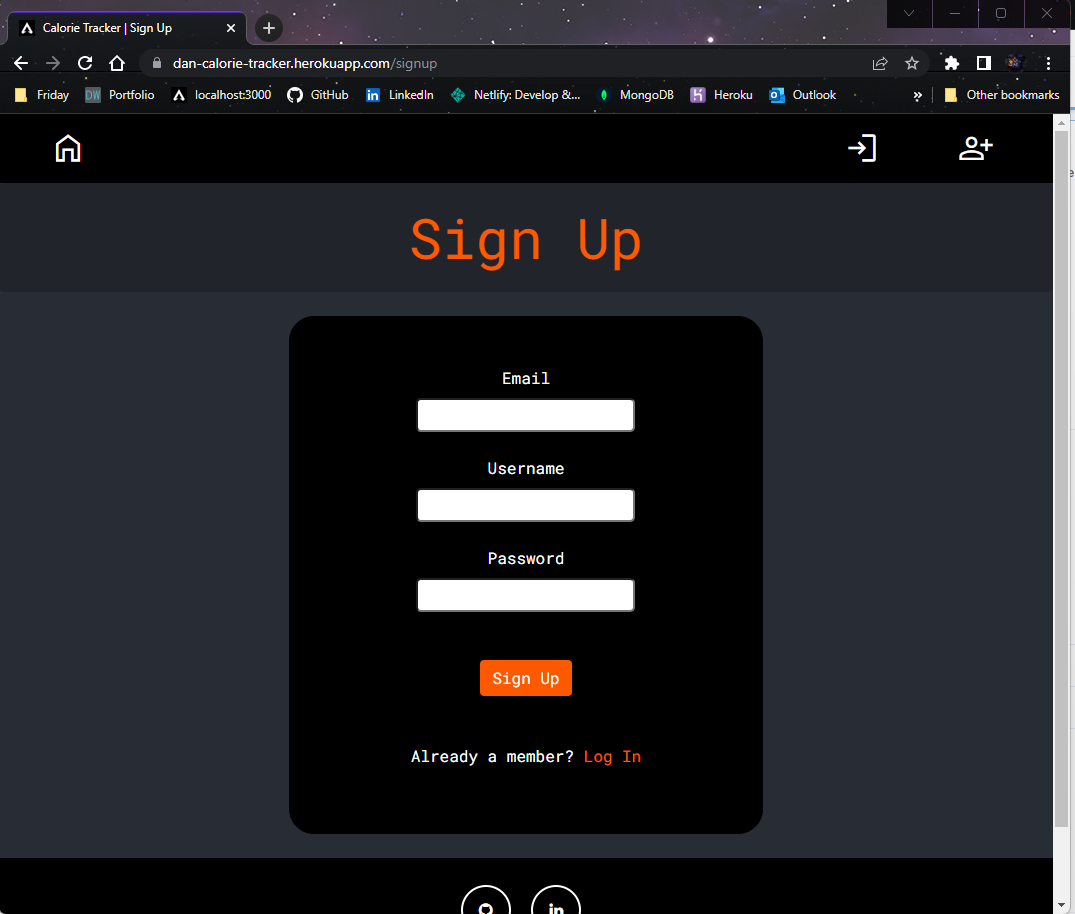
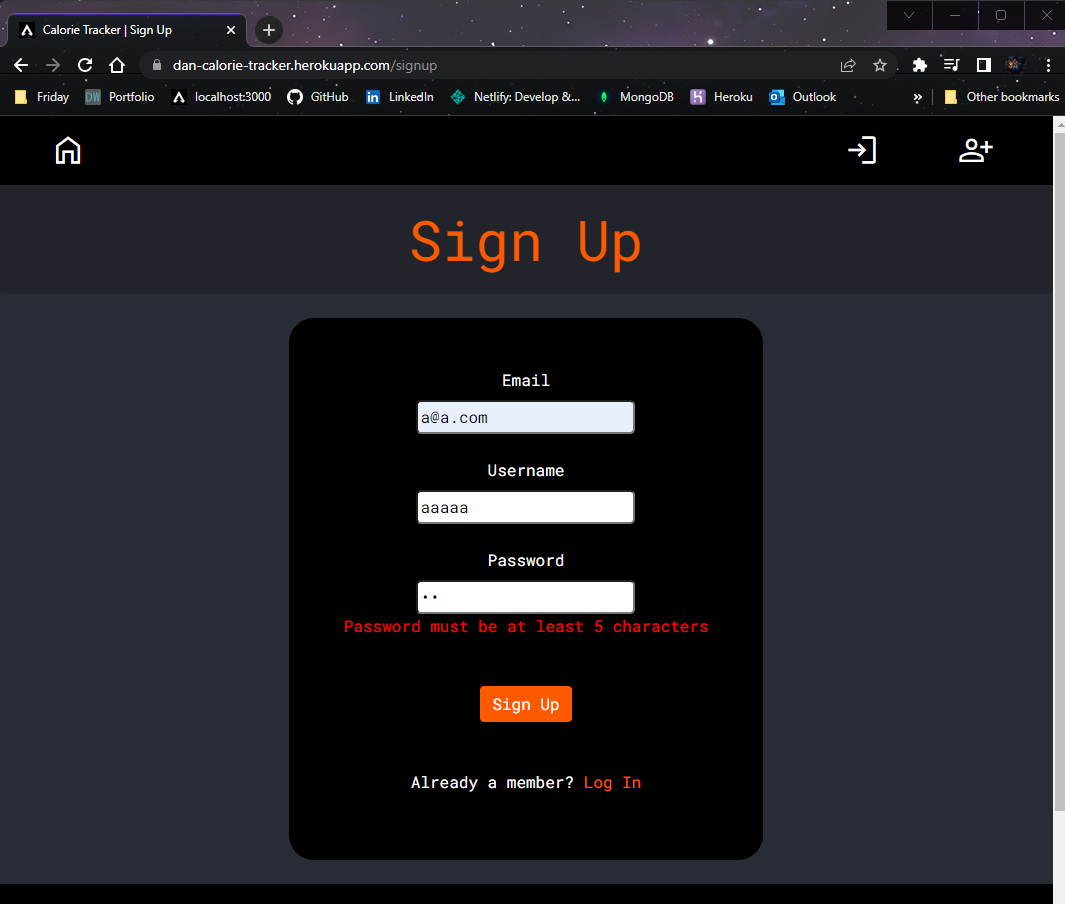
screenshots for calorie tracker all added

diff --git a/src/app/projectsList.ts b/src/app/projectsList.ts
@@ -18,9 +18,23 @@ export const PROJECTS: Project[] = [
         screenshot2Description: 'Login form',
         screenshot3: '../../../assets/images/calorieTracker/screenshot-3.png',
         screenshot3Description: 'Signup form',
-        screenshot4: '../../../assets/images/calorieTracker/screenshot-3.png',
-        screenshot4Description: 'Lorem ipsum, dolor sit amet consectetur adipisicing elit. Recusandae enim cum similique voluptas nulla? Repellat autem, incidunt magni culpa non illo, soluta quidem fugit voluptas doloremque necessitatibus at optio. Ab.',
-        code1: '../../../assets/images/calorieTracker/code-4.png',
+        screenshot4: '../../../assets/images/calorieTracker/screenshot-4.png',
+        screenshot4Description: 'A form displaying the custom error handling to users, invalid password (too short) on signup in this example.',
+        screenshot5: '../../../assets/images/calorieTracker/screenshot-5.png',
+        screenshot5Description: 'List of days.',
+        screenshot6: '../../../assets/images/calorieTracker/screenshot-6.png',
+        screenshot6Description: 'Server side error handling when trying to make a day that already exists.',
+        screenshot7: '../../../assets/images/calorieTracker/screenshot-7.png',
+        screenshot7Description: 'A new page for each new week.',
+        screenshot8: '../../../assets/images/calorieTracker/screenshot-8.png',
+        screenshot8Description: 'The entry for a day before any food is added',
+        screenshot9: '../../../assets/images/calorieTracker/screenshot-9.png',
+        screenshot9Description: 'The form used to add food.',
+        screenshot10: '../../../assets/images/calorieTracker/screenshot-10.png',
+        screenshot10Description: 'The same day entry as before after some food items have been added.',
+        screenshot11: '../../../assets/images/calorieTracker/screenshot-11.png',
+        screenshot11Description: 'MUST ADD THIS FUNCTIONALITY. The entry after a user has clicked the delete icon to remove a food object from this day.',
+        code1: '../../../assets/images/calorieTracker/code-1.png',
         code1Description: 'The sever instance and routes for the backend of the application. As this app is designed to scale with more functionality, the MVC model has been used to allow for a structured folder and file system which enables far easier addition of new code. The middleware on line 68, causes all GET routes to check if a user is logged in before sending any resources. As seen below, some routes will "requireAuth", implementing required login state for certain areas of the application. Currently, the required routes are the "indexRoutes" for the home page, "authRoutes" to handle user login and "calorieRoutes" that handle requests from the front end in regards to the calorie tracking. Lines 75-77 show the catch-all used to allow the display of a custom 404 page if the user naviagates away from the avilable routes.',
         code2: '../../../assets/images/calorieTracker/code-2.png',
         code2Description: 'Middleware for the authentication. When users are logged in, a cookie is saved with the corresponding JSON Web Token (JWT) which this middle ware uses in each function. "requireAuth" checks for a cookie and goes to the next process in the stack with line 24 if it is valid, however if it doesnt not exist or is invalid, the user is redirecetd to the login page. This is applied to every endpoint that needs to be hidden from a non-logged in user - such as the page that displays eaten food. "checkUser" sets the local variable of "user" to the username if found so it can be displayed on the page in the header, if a user is not logged in this function simply passes the process along the stack with the user as null.',
@@ -40,6 +54,10 @@ export const PROJECTS: Project[] = [
         code9Description: 'The "Day" Schema the template for day objects to be added to each user. As such, each contains a "userId" which associates it with the logged in user. This is not unique as there is a One to Many relationship occuring, where each user may have many days of tracking but each day object can only be associated with a single user. "dayId" is unique so no 2 day objects can be added for each user and is created by appending the "userId" onto the current day number - e.g. for user 777, day 1 would have the "dayId" 1777. Similarly to users, each day can contain foods, which is added as an array of food objects. It is not required as when it was required, no new days could be created without having already having food and since you cannot create a food object before a day, no new days would be added. The static method "findByUserId" was created to allow the calorie controller to return a day for a user given the "userId". Previously I was trying to use "findById" but this is a built in Mongoose method that uses the auto generated "_id" and so was causing errors. This allows the day to be found easily for use in the calorie controller.',
         code10: '../../../assets/images/calorieTracker/code-10.png',
         code10Description: 'For food, the "userDayId" field is populated with the "dayId" with the associated day with "-Number" appended. E.g. if user 777 added an apple to day 1, "userDayId" would be 1777-1. The name of each food added an calorie amount is aquired from an external database when the food is added via POST requets to "/calorie" in the backend to protect my API key located in the .env file.',
+        code11: '../../../assets/images/calorieTracker/code-11.png',
+        code11Description: 'The header partial is applied to all pages and contains conditonal rendering between lines 33 and 48. If a user exists as seen previously from the authentication middleware, then display "Welcome username" and the logout button, else the login and signup buttons.',
+        code12: '../../../assets/images/calorieTracker/code-12.png',
+        code12Description: 'An example of an EJS template. The partials included in each page are the header and footer components located in a seperate folder/file, similar to React or Angular. This pacticular page is for the login form.',
     },
     {
         id: 1,
@@ -65,7 +83,7 @@ export const PROJECTS: Project[] = [
         code1: '../../../assets/images/jigsawHelper/code-1.png',
         code1Description: 'The method called by the completedFindButton() method in the GUI class CreateInterface to show the user where the piece fits, returning the LinkedHashMap "sortedMap" that contains all of the possible locations ranked by score (lower mean squared error is a better score) required to draw the rectangle onto the finished image. Initially the sobelDetector() method is called to acquire the edge flag Boolean so the program knows whether to use the coloured 3d array or greyscale 2d array for the search. The threshold for the mean squared error is lower for the colour array as it is a more thorough search and therefore must have a stricter criteria to be considered a possible location. The "sortedMap" LinkedHashMap is where the possible locations for the piece are stored, ordered by their mean square error score, so the most likely piece is at the first part of the array.',
         code2: '../../../assets/images/jigsawHelper/code-2.png',
-        code2Description: 'The method begins by creating an array of integers the size of the image supplied to it and using nested for loops to iterate through both column (x) and row (y). The value of each pixel’s RGB colour is then calculated for a 3x3 grid from row 0 column 0 to row 2 column 2. The size of the grid of pixels created is 3x3 so it can be passed into the edge detection logic. Both the horizontal and vertical edge detection are calculated using the appropriate operator. The Sobel operator is the computer vision chosen as it is the most effective at creating an image that shows the edges that were originally in the image. The 3x3 operation calculations using convolution to acquire a gradient that can be used to construct a greyscale image. For this application, the gradient is added to a 2d array for use in the search algorithm later in the process. This method also contains the flag setter, which will determine which of the search method will be used, colour if false and greyscale if true. The method takes the parameter of Boolean type ‘isPiece’ which means the flag section is only accessed when supplied with the piece image and not the final image. The Sobel operator produces an image with values based heavily on whether an edge exists, and therefore the pixels array will contain values above the given ‘minRequiredToFlag’ threshold of 100 if the greyscale image is the appropriate procedure for finding this particular piece. As seen in figure 18, this means the greyscale of the final image will be compared against the piece greyscale array of the piece for the search. The field ‘pieceEdgesFlag’ is altered which tells the launch() method which method to call.',
+        code2Description: 'The method begins by creating an array of integers the size of the image supplied to it and using nested for loops to iterate through both column (x) and row (y). The value of each pixel’s RGB colour is then calculated for a 3x3 grid from row 0 column 0 to row 2 column 2. The size of the grid of pixels created is 3x3 so it can be passed into the edge detection logic. Both the horizontal and vertical edge detection are calculated using the appropriate operator. The Sobel operator is the computer vision chosen as it is the most effective at creating an image that shows the edges that were originally in the image. The 3x3 operation calculations using convolution to acquire a gradient that can be used to construct a greyscale image. For this application, the gradient is added to a 2d array for use in the search algorithm later in the process. This method also contains the flag setter, which will determine which of the search method will be used, colour if false and greyscale if true. The method takes the parameter of Boolean type ‘isPiece’ which means the flag section is only accessed when supplied with the piece image and not the final image. The Sobel operator produces an image with values based heavily on whether an edge exists, and therefore the pixels array will contain values above the given ‘minRequiredToFlag’ threshold of 100 if the greyscale image is the appropriate procedure for finding this particular piece. The greyscale of the final image will be compared against the piece greyscale array of the piece for the search. The field ‘pieceEdgesFlag’ is altered which tells the launch() method which method to call.',
         code3:  '../../../assets/images/jigsawHelper/code-3.png',
         code3Description: 'Once the greyscale image has been selected by the edge flag, the launch() method calls the following method to search for the location of the greyscale piece within the greyscale final image. Since both images (piece and final) are greyscale, the arrays they are contained in are 2d, so the search is relatively quick compared to the coloured search. A new 2d array is made for the comparator to find the location. This is created by copying the specified range of the 2d final image array into the new comparator array, the size of this cut is equal to the piece array size. The matching comparator array size with the piece array size allows the mean squared error logic in the method below to iterate across the final image comparing the exact piece size for each new line of pixels in the final image. Once the meanSquaredError() method has found the likely position, the Map object is populated with locations and scores.',
         code4:  '../../../assets/images/jigsawHelper/code-4.png',
@@ -79,17 +97,19 @@ export const PROJECTS: Project[] = [
         code8:  '../../../assets/images/jigsawHelper/code-8.png',
         code8Description: 'Once the algorithm has determined the location of the piece within the finished image, the application then draws the location as a box for the user to see the result of the computation. Since the algorithm also can supply more than one method of retrieving the result through taking a mean of results based on mean squared error, there are other methods with the same functionality that draw a different colour box.',
         code9:  '../../../assets/images/jigsawHelper/code-9.png',
-        code9Description: 'This button is where the two classes link together, with the actionPerformed() method using a try/catch clause to call the launch() method from the LocationAlgorithm class. The resulting LinkedHashMap, ‘sortedMap’, populated by the launch() method uses the first 2 elements as the x and y coordinates for the top left of the box. The drawLocationRed() methoD is then called with the parameters using the most likely position of the piece, as the first x and y coordinates in the ‘answers’ array have the smallest mean squared error. The method also sets the fields ‘xCoord2’ and ‘yCoord2’ for use in the completedFullSizeButton seen in figure 14 below by totalling the values of each x and y coordinate for the top  10 most likely positions (based on mean square error score) and putting the mean into an ArrayList for x and for y. The top 10 were chosen to represent the mean as some tests seen in chapter 6 return far too many answers for an accurate and representative mean, so the number is limited to 10. If the total number of locations found is less than 10, all options are considered in the mean calculations. Each of the positionOfPiece variables is the type cast array value from the correct value in the LinkedHashMap returned by LocationAlgorithm launch().',
+        code9Description: 'This button is where the two classes link together, with the actionPerformed() method using a try/catch clause to call the launch() method from the LocationAlgorithm class. The resulting LinkedHashMap, ‘sortedMap’, populated by the launch() method uses the first 2 elements as the x and y coordinates for the top left of the box. The drawLocationRed() methoD is then called with the parameters using the most likely position of the piece, as the first x and y coordinates in the ‘answers’ array have the smallest mean squared error. The method also sets the fields ‘xCoord2’ and ‘yCoord2’ for use in the completedFullSizeButton by totalling the values of each x and y coordinate for the top  10 most likely positions (based on mean square error score) and putting the mean into an ArrayList for x and for y. The top 10 were chosen to represent the mean as some tests returned far too many answers for an accurate and representative mean, so the number is limited to 10. If the total number of locations found is less than 10, all options are considered in the mean calculations. Each of the positionOfPiece variables is the type cast array value from the correct value in the LinkedHashMap returned by LocationAlgorithm launch().',
         code10: '../../../assets/images/jigsawHelper/code-10.png',
         code10Description: 'An example of how the Java GUI elements are styled. The purpose of the completedFullSizeButton to also show the user other possible locations, seen by the ‘setText("Click Here To See All Possible Locations")’ method invoked on the button. The button shows the user the finished image in its full size in a new window along with as blue box that uses the fields ‘xCoord2’ and ‘yCoord2’ to draw a blue box around the mean of all possible locations. This method also redraws the same red box as before on the new window image.',
+        code11: '../../../assets/images/jigsawHelper/code-11.png',
+        code11Description: 'When a new piece is uploaded, the height and width are added to a global variable within this class. This allows the draw method to be draw a box the exact same size as the piece image.',
     },
     {
         id: 2,
         title: 'GitHub Searcher',
         url: 'https://dan-react-github-search.netlify.app/',
         GitHub: 'https://github.com/WalkingZ3d/github-tracker',
-        summary: 'A React front-end exclusive application to search for a given users repositories. This application makes uese of React routing, state, reducers amd useEffect() Hooks to achieve its result.',
-        description: 'A React front-end exclusive application to search for a given users repositories. This application makes uese of React routing, state, reducers amd useEffect() Hooks to achieve its result.',
+        summary: 'A React front-end exclusive application to search for a given users repositories. This application makes uses of React routing, state, reducers amd useEffect() Hooks to achieve its result.',
+        description: 'A React front-end exclusive application to search for a given users repositories. This application makes uses of React routing, state, reducers amd useEffect() Hooks to achieve its result.',
         picture: '../../../assets/images/repoSearcher/main-screenshot.png',
         stamp: '../../../assets/images/stamps/personal-pink-clear.png',
         framework: '../../../assets/images/frameworkIcons/react-logo.png',
@@ -102,7 +122,7 @@ export const PROJECTS: Project[] = [
         screenshot4: '../../../assets/images/repoSearcher/screenshot-4.png',
         screenshot4Description: 'This page takes advantage of React Routing to provide the user with a custom 404 page if they navigate to a non-existant route.',
         code1: '../../../assets/images/repoSearcher/code-1.png',
-        code1Description: 'This useEffect() React Hook is located in the source code for the "Search" page and fires whenever a new username is searched. The asynchronous function, seen between lines 20 and 29, makes a call to the GitHub API to update both the reposCount (number of repositories for that username) and ownerName (username) React States - called recursively on line 31. This method of nested async function is necessary as the useEffect itself cannot be asynchronous. ',
+        code1Description: 'This useEffect() React Hook is located in the source code for the "Search" page and fires whenever a new username is searched. The asynchronous function, seen between lines 20 and 29, makes a call to the GitHub API to update both the reposCount (number of repositories for that username) and ownerName (username) React States - and is called recursively on line 31. This method of nested async function is necessary as the useEffect itself cannot be asynchronous. ',
         code2: '../../../assets/images/repoSearcher/code-2.png',
         code2Description: 'This useEffect() is also located in the source code for the "Search" page and fires whenever the number of pages are changed, username is changed or a new page is navigated to. The async function, seen between lines 44 and 62, sets the number of pages required (lines 46 and 47) and calls the API to get as many repositories as each page will show. This function is also called recursively within the useEffect.',
         code3: '../../../assets/images/repoSearcher/code-3.png',
@@ -122,7 +142,7 @@ export const PROJECTS: Project[] = [
         description: 'Lorem ipsum, dolor sit amet consectetur adipisicing elit. Recusandae enim cum similique voluptas nulla? Repellat autem, incidunt magni culpa non illo, soluta quidem fugit voluptas doloremque necessitatibus at optio. Ab.',
         picture: '../../../assets/images/fnc.png',
         stamp: '../../../assets/images/stamps/collaborative-pink-clear.png',
-        framework: '../../../assets/images/frameworkIcons/node-logo.png',
+        framework: '../../../assets/images/frameworkIcons/flask-logo.png',
         screenshot1: '../../../assets/images/calorieTracker/calorieTracker.png',
         screenshot1Description: 'Lorem ipsum, dolor sit amet consectetur adipisicing elit. Recusandae enim cum similique voluptas nulla? Repellat autem, incidunt magni culpa non illo, soluta quidem fugit voluptas doloremque necessitatibus at optio. Ab.',
         screenshot2: '../../../assets/images/calorieTracker/calorieTracker.png',

diff --git a/src/app/components/project-display/project-display.component.html b/src/app/components/project-display/project-display.component.html
@@ -98,6 +98,46 @@
                         <img src="{{projectChosen.screenshot6}}" alt="" id="projectImg"> 
                     </div>
                 </div>
+                <div *ngIf="projectChosen.screenshot7" class="row text-center" id="screenshotRow">
+                    <div class="col-sm-6" id="imagesCol">
+                        <img src="{{projectChosen.screenshot7}}" alt="" id="projectImg"> 
+                    </div>
+                    <div class="col-sm-6 justify-content-center align-self-center" id="imagesColR">
+                        {{projectChosen.screenshot7Description}}
+                    </div>
+                </div>
+                <div *ngIf="projectChosen.screenshot8" class="row text-center" id="screenshotRow2">
+                    <div class="col-sm-6 justify-content-center align-self-center" id="imagesColL">
+                        {{projectChosen.screenshot8Description}}
+                    </div>
+                    <div class="col-sm-6" id="imagesCol">
+                        <img src="{{projectChosen.screenshot8}}" alt="" id="projectImg"> 
+                    </div>
+                </div>
+                <div *ngIf="projectChosen.screenshot9" class="row text-center" id="screenshotRow">
+                    <div class="col-sm-6" id="imagesCol">
+                        <img src="{{projectChosen.screenshot9}}" alt="" id="projectImg"> 
+                    </div>
+                    <div class="col-sm-6 justify-content-center align-self-center" id="imagesColR">
+                        {{projectChosen.screenshot9Description}}
+                    </div>
+                </div>
+                <div *ngIf="projectChosen.screenshot9" class="row text-center" id="screenshotRow2">
+                    <div class="col-sm-6 justify-content-center align-self-center" id="imagesColL">
+                        {{projectChosen.screenshot10Description}}
+                    </div>
+                    <div class="col-sm-6" id="imagesCol">
+                        <img src="{{projectChosen.screenshot10}}" alt="" id="projectImg"> 
+                    </div>
+                </div>
+                <div *ngIf="projectChosen.screenshot11" class="row text-center" id="screenshotRow">
+                    <div class="col-sm-6" id="imagesCol">
+                        <img src="{{projectChosen.screenshot11}}" alt="" id="projectImg"> 
+                    </div>
+                    <div class="col-sm-6 justify-content-center align-self-center" id="imagesColR">
+                        {{projectChosen.screenshot11Description}}
+                    </div>
+                </div>
             </div>
             <div class="tab-pane fade" id="pills-code" role="tabpanel" aria-labelledby="pills-code-tab">
                 <div *ngIf="projectChosen.code1" class="row text-center d-flex" id="screenshotRow2">
@@ -178,6 +218,22 @@
                     </div>
                     <div class="col-sm-6 justify-content-center align-self-center" id="imagesColR">
                         {{projectChosen.code10Description}}
+                    </div>
+                </div>
+                <div *ngIf="projectChosen.code11" class="row text-center" id="screenshotRow2">                    
+                    <div class="col-sm-6 justify-content-center align-self-center" id="imagesColL">
+                        {{projectChosen.code11Description}}
+                    </div>
+                    <div class="col-sm-6" id="imagesCol">
+                        <img src="{{projectChosen.code11}}" alt="" id="projectImg"> 
+                    </div>
+                </div>
+                <div *ngIf="projectChosen.code12" class="row text-center" id="screenshotRow">                    
+                    <div class="col-sm-6" id="imagesCol">
+                        <img src="{{projectChosen.code12}}" alt="" id="projectImg"> 
+                    </div>
+                    <div class="col-sm-6 justify-content-center align-self-center" id="imagesColR">
+                        {{projectChosen.code12Description}}
                     </div>
                 </div>
             </div>

diff --git a/src/app/Project.ts b/src/app/Project.ts
@@ -21,6 +21,16 @@ export interface Project {
     screenshot5Description?: string;
     screenshot6?: string;
     screenshot6Description?: string;
+    screenshot7?: string;
+    screenshot7Description?: string;
+    screenshot8?: string;
+    screenshot8Description?: string;
+    screenshot9?: string;
+    screenshot9Description?: string;
+    screenshot10?: string;
+    screenshot10Description?: string;
+    screenshot11?: string;
+    screenshot11Description?: string;
     code1?: string;
     code1Description?: string;
     code2?: string;
@@ -41,4 +51,20 @@ export interface Project {
     code9Description?: string;
     code10?: string;
     code10Description?: string;
+    code11?: string;
+    code11Description?: string;
+    code12?: string;
+    code12Description?: string;
+    code13?: string;
+    code13Description?: string;
+    code14?: string;
+    code14Description?: string;
+    code15?: string;
+    code15Description?: string;
+    code16?: string;
+    code16Description?: string;
+    code17?: string;
+    code17Description?: string;
+    code18?: string;
+    code18Description?: string;
 }
